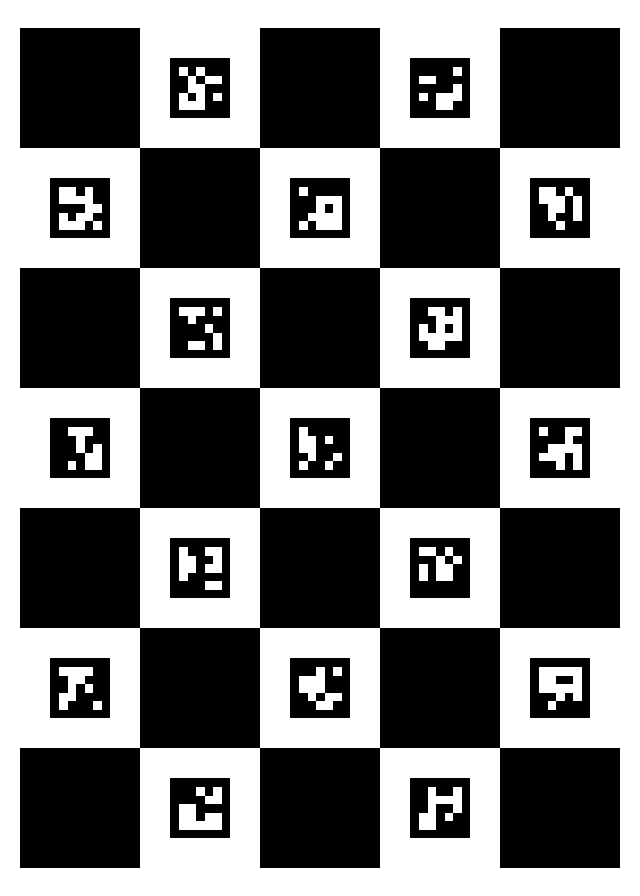
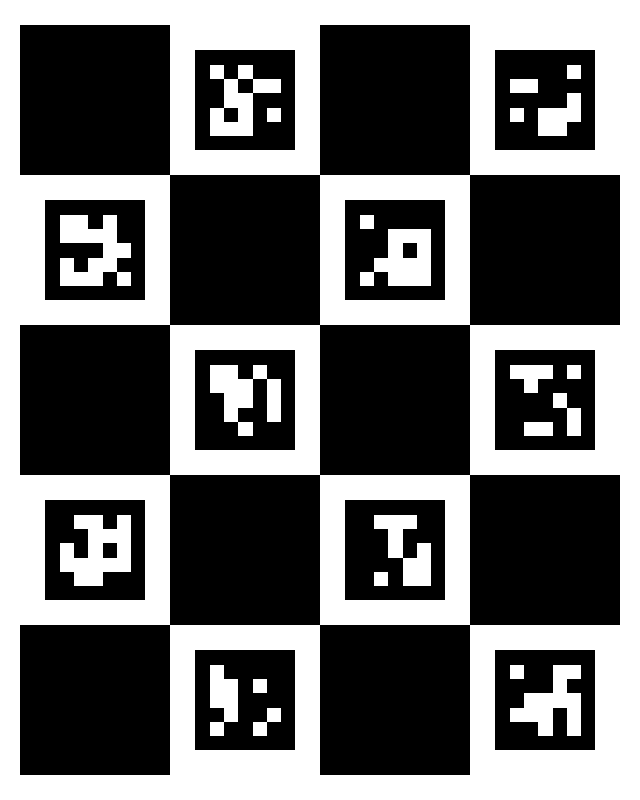
Add calibration code

diff --git a/camera_calibrate.py b/camera_calibrate.py
@@ -1,0 +1,194 @@
+import os
+import cv2.aruco as aruco
+import sys
+import cv2
+import numpy as np
+from PyQt6.QtCore import QThread, pyqtSignal, pyqtSlot
+from PyQt6.QtGui import QImage, QPixmap
+from PyQt6.QtWidgets import QApplication, QLabel, QVBoxLayout, QWidget, QPushButton
+
+# ------------------------------
+# ENTER YOUR REQUIREMENTS HERE:
+ARUCO_DICT = cv2.aruco.DICT_6X6_250
+SQUARES_VERTICALLY = 7
+SQUARES_HORIZONTALLY = 5
+SQUARE_LENGTH = 0.03
+MARKER_LENGTH = 0.015
+# ...
+PATH_TO_YOUR_IMAGES = './calibration_images'
+# ------------------------------
+
+
+class VideoThread(QThread):
+    # Signal that will send a QImage to update the GUI
+    change_pixmap_signal = pyqtSignal(QImage)
+
+    def calibrate_and_save_parameters(self):
+        # Define the aruco dictionary and charuco board
+        dictionary = cv2.aruco.getPredefinedDictionary(ARUCO_DICT)
+        board = cv2.aruco.CharucoBoard((SQUARES_VERTICALLY, SQUARES_HORIZONTALLY), SQUARE_LENGTH, MARKER_LENGTH, dictionary)
+        params = cv2.aruco.DetectorParameters()
+
+        # Load PNG images from folder
+        image_files = [os.path.join(PATH_TO_YOUR_IMAGES, f) for f in os.listdir(PATH_TO_YOUR_IMAGES) if f.endswith(".png")]
+        image_files.sort()  # Ensure files are in order
+
+        all_charuco_corners = []
+        all_charuco_ids = []
+        mtx = any;
+        dist = any
+
+        for image_file in image_files:
+            image = cv2.imread(image_file)
+            image_copy = image.copy()
+            marker_corners, marker_ids, _ = cv2.aruco.detectMarkers(image, dictionary, parameters=params)
+            
+            # If at least one marker is detected
+            if len(marker_ids) > 0:
+                cv2.aruco.drawDetectedMarkers(image_copy, marker_corners, marker_ids)
+                charuco_retval, charuco_corners, charuco_ids = cv2.aruco.interpolateCornersCharuco(marker_corners, marker_ids, image, board)
+                if charuco_retval:
+                    all_charuco_corners.append(charuco_corners)
+                    all_charuco_ids.append(charuco_ids)
+
+        # Calibrate camera
+        
+            retval, mtx, dist, rvecs, tvecs = cv2.aruco.calibrateCameraCharuco(all_charuco_corners, all_charuco_ids, board, image.shape[:2], None, None)
+
+        # # Save calibration data
+        # np.save('camera_matrix.npy', camera_matrix)
+        # np.save('dist_coeffs.npy', dist_coeffs)
+
+        for image_file in image_files:
+            image = cv2.imread(image_file)
+            image_copy = image.copy()
+            h,  w = image.shape[:2]
+            newcameramtx, roi = cv2.getOptimalNewCameraMatrix(mtx, dist, (w,h), 1, (w,h))
+
+            dst = cv2.undistort(image, mtx, dist, None, newcameramtx)
+            rgb_frame = cv2.cvtColor(frame, cv2.COLOR_BGR2RGB)
+
+
+    
+    def run(self):
+        # Define the aruco dictionary and charuco board
+        dictionary = cv2.aruco.getPredefinedDictionary(ARUCO_DICT)
+        board = cv2.aruco.CharucoBoard((SQUARES_VERTICALLY, SQUARES_HORIZONTALLY), SQUARE_LENGTH, MARKER_LENGTH, dictionary)
+        params = cv2.aruco.DetectorParameters()
+
+        # Load PNG images from folder
+        image_files = [os.path.join(PATH_TO_YOUR_IMAGES, f) for f in os.listdir(PATH_TO_YOUR_IMAGES) if f.endswith(".png")]
+        image_files.sort()  # Ensure files are in order
+
+        all_charuco_corners = []
+        all_charuco_ids = []
+        mtx = any;
+        dist = any
+
+        first = True
+        for im in image_files:
+            img_gray = cv2.cvtColor(im,cv2.COLOR_RGB2GRAY)
+            corners, ids, rejectedImgPoints = aruco.detectMarkers(img_gray, aruco_dict, parameters=arucoParams)
+            if first == True:
+                corners_list = corners
+                id_list = ids
+                first = False
+            else:
+                corners_list = np.vstack((corners_list, corners))
+                id_list = np.vstack((id_list,ids))
+            counter.append(len(ids))
+        print('Found {} unique markers'.format(np.unique(ids)))
+
+        counter = np.array(counter)
+        print ("Calibrating camera .... Please wait...")
+        #mat = np.zeros((3,3), float)
+
+        ret, mtx, dist, rvecs, tvecs = aruco.calibrateCameraAruco(corners_list, id_list, counter, board, img_gray.shape, None, None )
+
+        print("Camera matrix is \n", mtx, "distortion coefficients : \n", dist)
+
+        # # Save calibration data
+        np.save('camera_matrix.npy', mtx)
+        np.save('dist_coeffs.npy', dist)
+
+
+        # Open the default camera
+        cap = cv2.VideoCapture(0)
+        while True:
+            ret, frame = cap.read()
+            if not ret:
+                break  # Stop if frame is not captured
+            
+            # h,  w = frame.shape[:2]
+            # newcameramtx, roi = cv2.getOptimalNewCameraMatrix(mtx, dist, (w,h), 1, (w,h))
+
+            # dst = cv2.undistort(frame, mtx, dist, None, newcameramtx)
+
+            # Place for heavy processing (e.g., filtering, object detection)
+            # For demonstration, we just convert BGR (OpenCV default) to RGB.
+            rgb_frame = cv2.cvtColor(frame, cv2.COLOR_BGR2RGB)
+            
+            # Convert the frame (a NumPy array) to QImage:
+            h, w, ch = rgb_frame.shape
+            bytes_per_line = ch * w
+            qt_image = QImage(rgb_frame.data, w, h, bytes_per_line, QImage.Format.Format_RGB888)
+            
+            # Emit the signal with the new QImage
+            self.change_pixmap_signal.emit(qt_image)
+        cap.release()
+
+class MainWindow(QWidget):
+    def __init__(self):
+        super().__init__()
+        self.setWindowTitle("OpenCV Video Stream with QThread")
+        
+        # Create a label to display the video
+        self.image_label = QLabel()
+        self.image_label.setFixedSize(640, 480)
+        
+        self.count = 0
+        self.text_label = QLabel("I Was not clicked yet!")
+        self.button = QPushButton("Increment Count")
+        self.button.clicked.connect(lambda: self.update_label())
+
+        # Set up the layout
+        layout = QVBoxLayout()
+        layout.addWidget(self.text_label)
+        layout.addWidget(self.button)
+        layout.addWidget(self.image_label)
+        self.setLayout(layout)
+        
+        # Create and start the video thread
+        self.thread = VideoThread()
+        self.thread.change_pixmap_signal.connect(self.update_image)
+        self.thread.start()
+    
+    def update_label(self):
+        self.count += 1
+        self.text_label.setText("I was clicked {} times!".format(self.count))
+
+    @pyqtSlot(QImage)
+    def update_image(self, qt_image):
+        """Receive QImage from the thread and update the label."""
+        self.image_label.setPixmap(QPixmap.fromImage(qt_image))
+    
+    def closeEvent(self, event):
+        """Handle the window close event to properly terminate the thread."""
+        self.thread.quit()
+        self.thread.wait()
+        event.accept()
+
+if __name__ == '__main__':
+    app = QApplication(sys.argv)
+    window = MainWindow()
+    window.show()
+    sys.exit(app.exec())
+
+
+
+
+if __name__ == "__main__":
+    app = QApplication(sys.argv)
+    window = MainWindow()
+    window.show()
+    sys.exit(app.exec())

diff --git a/calibrate_camera.py b/calibrate_camera.py
@@ -1,0 +1,102 @@
+import cv2
+import cv2.aruco as aruco
+import numpy as np
+import glob
+
+def calibrate_camera_charuco():
+    # Define Charuco board parameters (should match your board generation parameters)
+    squares_x = 5         # Number of squares in X direction
+    squares_y = 7         # Number of squares in Y direction
+    square_length = 0.03  # In your chosen unit (e.g., meters)
+    marker_length = 0.015 # Must be smaller than square_length
+
+    # Use the same dictionary as for board generation
+    dictionary = aruco.getPredefinedDictionary(aruco.DICT_5X5_100)
+
+    # Create the Charuco board object (note: OpenCV uses (squares_x, squares_y))
+    board = aruco.CharucoBoard((squares_x, squares_y), square_length, marker_length, dictionary)
+
+    # Prepare lists to store detected charuco corners and ids from all images
+    all_corners = []
+    all_ids = []
+    image_size = None
+
+    # Load all calibration images from the specified directory
+    images = glob.glob("calibration_images/*.jpg")  # change extension if needed
+    print(f"Found {len(images)} images for calibration.")
+
+    for fname in images:
+        img = cv2.imread(fname)
+        if img is None:
+            continue  # Skip if image cannot be loaded
+
+        # Save image size from first image
+        if image_size is None:
+            image_size = (img.shape[1], img.shape[0])  # (width, height)
+
+        gray = cv2.cvtColor(img, cv2.COLOR_BGR2GRAY)
+
+        # Detect ArUco markers in the image
+        corners, ids, rejected = aruco.detectMarkers(gray, dictionary)
+
+        # If markers detected, interpolate to get Charuco corners
+        if ids is not None and len(ids) > 0:
+            retval, charuco_corners, charuco_ids = aruco.interpolateCornersCharuco(
+                markerCorners=corners, markerIds=ids, image=gray, board=board)
+            
+            # If a sufficient number of charuco corners detected, store them
+            if charuco_corners is not None and charuco_ids is not None and len(charuco_ids) > 20:
+                all_corners.append(charuco_corners)
+                all_ids.append(charuco_ids)
+                
+                # Optional: Draw the Charuco corners and display for verification
+                img_drawn = aruco.drawDetectedMarkers(img.copy(), corners, ids)
+                img_drawn = aruco.drawDetectedCornersCharuco(img_drawn, charuco_corners, charuco_ids)
+                cv2.imshow('Charuco Corners', img_drawn)
+                cv2.waitKey(100)
+        else:
+            print(f"No markers detected in image: {fname}")
+
+    cv2.destroyAllWindows()
+
+    if len(all_corners) == 0:
+        print("No Charuco corners were detected in any image. Calibration failed.")
+        return
+
+    # Perform camera calibration using the detected Charuco corners
+    ret, camera_matrix, dist_coeffs, rvecs, tvecs = aruco.calibrateCameraCharuco(
+        charucoCorners=all_corners,
+        charucoIds=all_ids,
+        board=board,
+        imageSize=image_size,
+        cameraMatrix=None,
+        distCoeffs=None)
+    
+    print("\nCalibration successful!")
+    print("Camera matrix:")
+    print(camera_matrix)
+    print("\nDistortion coefficients:")
+    print(dist_coeffs)
+    print(f"\nRe-projection error: {ret}")
+
+    # Optionally, undistort one of the images to visually validate calibration
+    test_img = cv2.imread(images[0])
+    undistorted_img = cv2.undistort(test_img, camera_matrix, dist_coeffs, None, camera_matrix)
+    cv2.imwrite("undistorted_img.png", undistorted_img)
+    cv2.imwrite("test_img.png", test_img)
+    res_test_img = cv2.resize(test_img, dsize=(1280, 720), interpolation=cv2.INTER_CUBIC)
+    res_undistorted_img  = cv2.resize(undistorted_img, dsize=(1280, 720), interpolation=cv2.INTER_CUBIC)
+    cv2.imshow("Original Image", res_test_img)
+    cv2.imshow("Undistorted Image", res_undistorted_img)
+    cv2.waitKey(100)
+    cv2.destroyAllWindows()
+
+    # Save calibration results to a file (e.g., using NumPy's savez)
+    np.savez("calibration_data.npz", camera_matrix=camera_matrix, dist_coeffs=dist_coeffs,
+             rvecs=rvecs, tvecs=tvecs)
+
+
+
+
+if __name__ == "__main__":
+    calibrate_camera_charuco()

diff --git a/merge_thread.py b/merge_thread.py
@@ -1,5 +1,6 @@
 import sys
 import cv2
+import cv2.aruco as aruco
 import numpy as np
 from PyQt6.QtCore import QThread, pyqtSignal, pyqtSlot
 from PyQt6.QtGui import QImage, QPixmap
@@ -8,6 +9,7 @@ from PyQt6.QtWidgets import QApplication, QLabel, QVBoxLayout, QWidget, QPushBut
 class VideoThread(QThread):
     # Signal that will send a QImage to update the GUI
     change_pixmap_signal = pyqtSignal(QImage)
+    dictionary = aruco.getPredefinedDictionary(aruco.DICT_5X5_100)
     
     def run(self):
         # Open the default camera
@@ -16,15 +18,24 @@ class VideoThread(QThread):
             ret, frame = cap.read()
             if not ret:
                 break  # Stop if frame is not captured
-            
+
+            gray = cv2.cvtColor(frame, cv2.COLOR_BGR2GRAY)
+
+            corners, ids, rejected = aruco.detectMarkers(gray, self.dictionary)
+
             # Place for heavy processing (e.g., filtering, object detection)
             # For demonstration, we just convert BGR (OpenCV default) to RGB.
             rgb_frame = cv2.cvtColor(frame, cv2.COLOR_BGR2RGB)
             
+            if(rejected):
+                img_drawn = rgb_frame
+            else:
+                img_drawn = aruco.drawDetectedMarkers(rgb_frame.copy(), corners, ids)
+
             # Convert the frame (a NumPy array) to QImage:
-            h, w, ch = rgb_frame.shape
+            h, w, ch = img_drawn.shape
             bytes_per_line = ch * w
-            qt_image = QImage(rgb_frame.data, w, h, bytes_per_line, QImage.Format.Format_RGB888)
+            qt_image = QImage(img_drawn.data, w, h, bytes_per_line, QImage.Format.Format_RGB888)
             
             # Emit the signal with the new QImage
             self.change_pixmap_signal.emit(qt_image)

diff --git a/charuco_generate.py b/charuco_generate.py
@@ -4,10 +4,10 @@ import numpy as np
 
 def main():
     # Define board parameters
-    squares_x = 5         # Number of chessboard squares in the X direction
-    squares_y = 7         # Number of chessboard squares in the Y direction
+    squares_x = 4         # Number of chessboard squares in the X direction
+    squares_y = 5         # Number of chessboard squares in the Y direction
     square_length = 0.03    # Square side length in pixels (adjust as needed)
-    marker_length = 0.015    # Marker side length in pixels (should be smaller than square_length)
+    marker_length = 0.02    # Marker side length in pixels (should be smaller than square_length)
     LENGTH_PX = 640   # total length of the page in pixels
     MARGIN_PX = 20    # size of the margin in pixels 
     # Choose a predefined dictionary. You can change the dictionary if desired.
